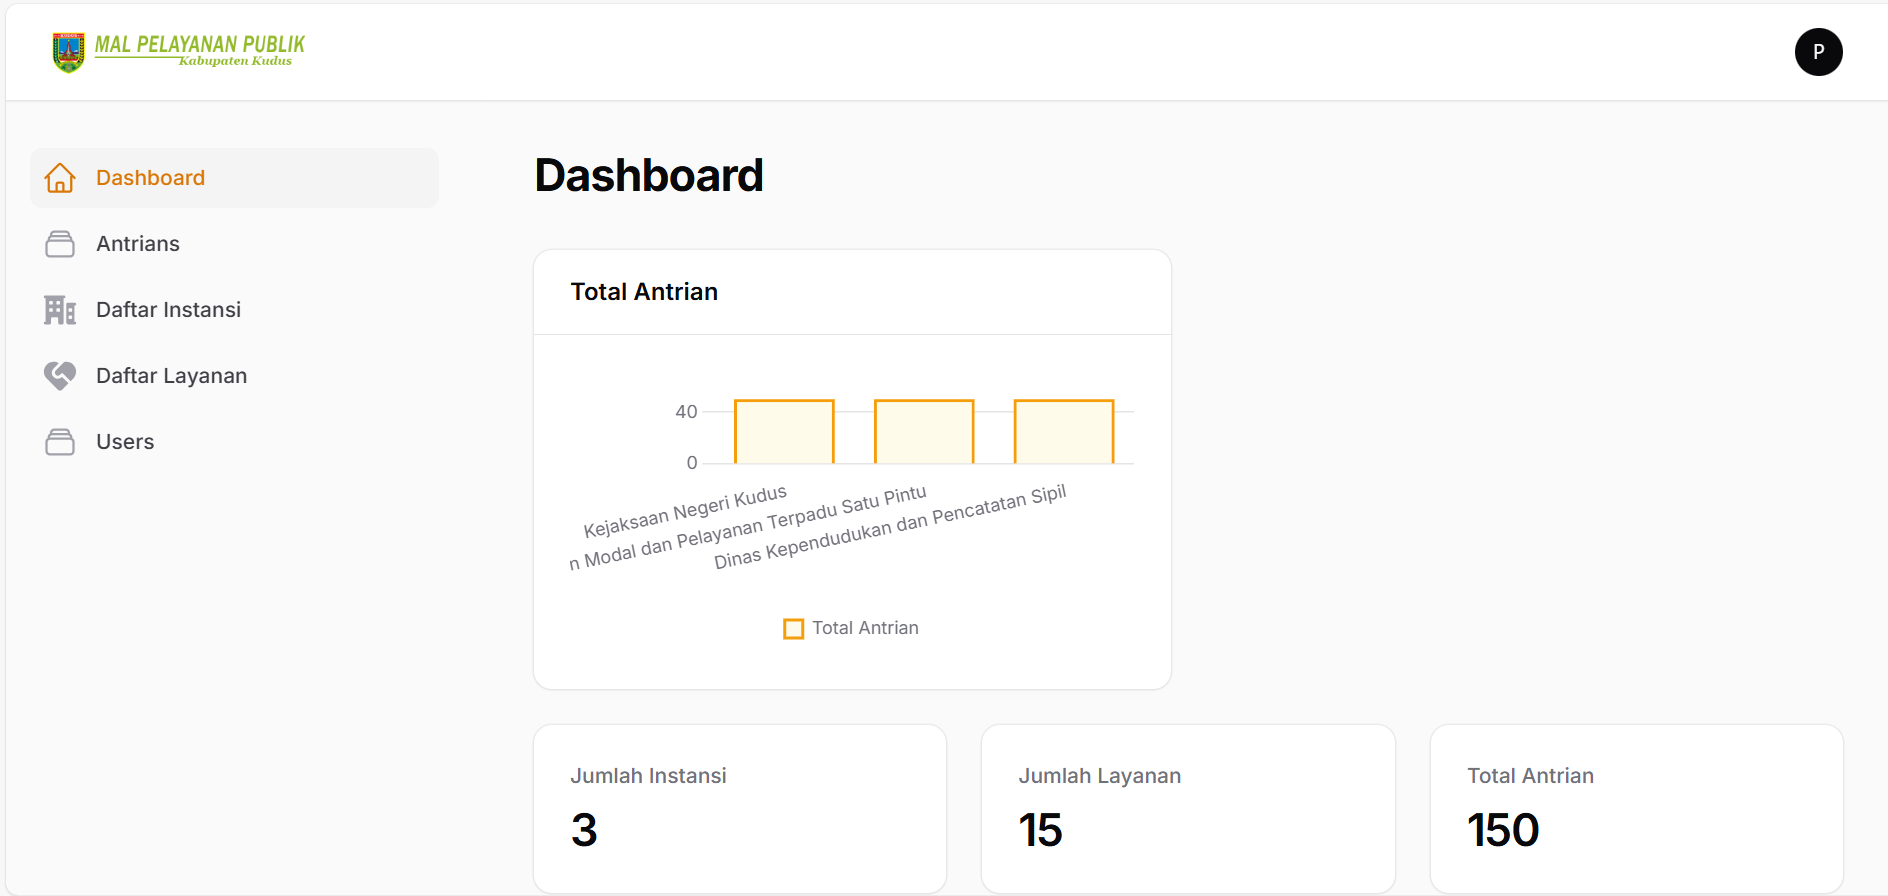
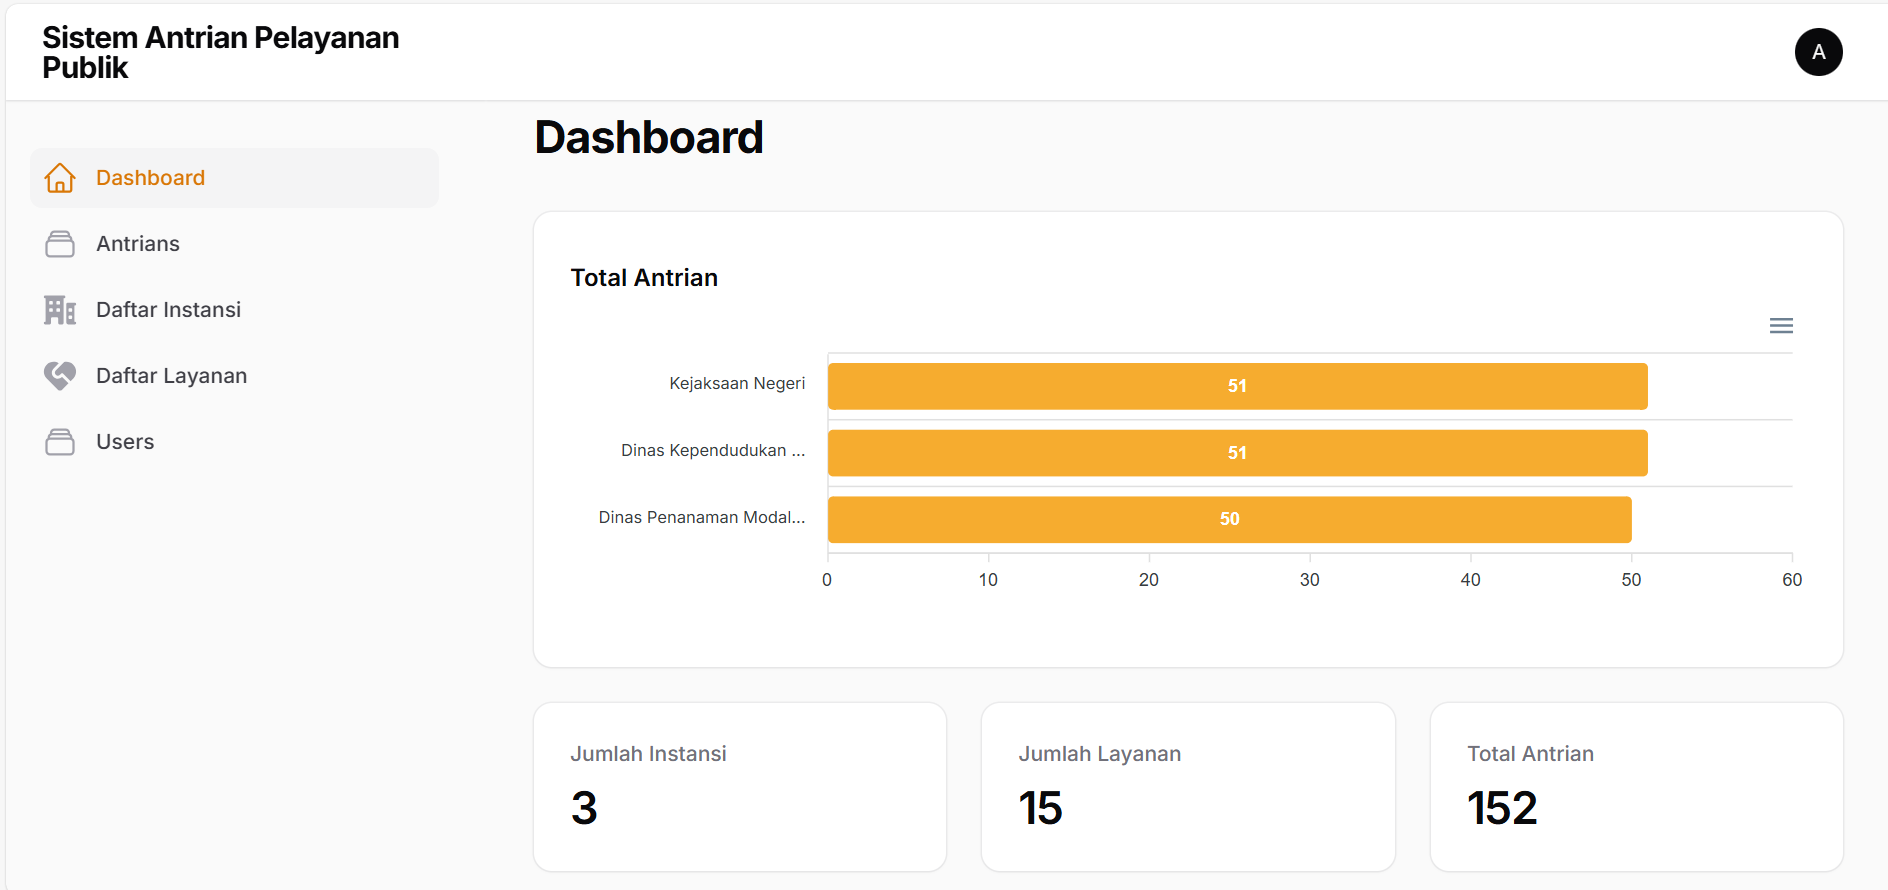
no message

diff --git a/resources/views/index.blade.php b/resources/views/index.blade.php
@@ -6,7 +6,7 @@
     <meta name="viewport" content="width=device-width, initial-scale=1.0" />
         @vite('resources/css/app.css')
     <title>
-      Play | Free Tailwind CSS Template for Startup and SaaS By TailGrids
+      Sistem Antrian Pelayanan Publik
     </title>
     <link
       rel="shortcut icon"
@@ -32,7 +32,7 @@
           <div class="max-w-full px-4 w-60">
             <a href="index.html" class="block w-full py-5 navbar-logo">
               <img
-                src="{{ asset('assets/images/logo/mppfix.png') }}"
+                src=""
                 alt="logo"
                 class="w-full header-logo"
               />
@@ -183,7 +183,7 @@
                 data-wow-delay=".2s"
                 >
                 <h1 class="mb-6 text-3xl font-bold leading-snug text-white sm:text-4xl sm:leading-snug lg:text-5xl lg:leading-[1.2]">
-                    Mall Pelayanan Publik Kudus
+                    Sistem Antrian Pelayanan Publik
                 </h1>
                 <p class="mx-auto mb-9 max-w-[600px] text-base font-medium text-white sm:text-lg sm:leading-[1.44]">
                     Siap Melayani Anda.
@@ -229,14 +229,14 @@
                 Instansi
             </h1>
             <p class="mx-auto mb-9 max-w-[600px] text-base font-medium text-black sm:text-lg sm:leading-[1.44]">
-                Daftar Instansi di Mall Pelayanan Publik Kabupaten Kudus.
+                Daftar Instansi.
             </p>
             </div>
 
             <div class="grid gap-8 sm:grid-cols-2 lg:grid-cols-3">
             <!-- Card 1 -->
             <div class="bg-white rounded-2xl shadow-md p-6 text-center">
-                <img src="{{ asset('assets/images/instansi/DPMPTSP.png') }}" alt="Garret Edwards" class="w-32 h-32 mx-auto rounded-full mb-4 object-cover">
+                <img src="" alt="Instansi 1" class="w-32 h-32 mx-auto rounded-full mb-4 object-cover">
                 <h3 class="text-xl font-semibold text-gray-800">Dinas Penanaman Modal dan Pelayanan Terpadu Satu Pintu</h3>
                 
                 <div class="flex justify-center space-x-4 text-gray-500">
@@ -248,7 +248,7 @@
 
             <!-- Card 2 -->
             <div class="bg-white rounded-2xl shadow-md p-6 text-center">
-                <img src="{{ asset('assets/images/instansi/DUKCAPIL.png') }}" alt="Jonathan Leeson" class="w-32 h-32 mx-auto rounded-full mb-4 object-cover">
+                <img src="" alt="Instansi 2" class="w-32 h-32 mx-auto rounded-full mb-4 object-cover">
                 <h3 class="text-xl font-semibold text-gray-800">Direktorat Jenderal Kependudukan dan Pencatatan Sipil</h3>
                 <div class="flex justify-center space-x-4 text-gray-500">
                 <a href="#"><i class="fab fa-facebook-f"></i></a>
@@ -259,8 +259,8 @@
 
             <!-- Card 3 -->
             <div class="bg-white rounded-2xl shadow-md p-6 text-center">
-                <img src="{{ asset('assets/images/instansi/KEJAKSAAN.png') }}" alt="Joe Russell" class="w-32 h-32 mx-auto rounded-full mb-4 object-cover">
-                <h3 class="text-xl font-semibold text-gray-800">Kejaksaan Negeri Kudus</h3>
+                <img src="" alt="Instansi 3" class="w-32 h-32 mx-auto rounded-full mb-4 object-cover">
+                <h3 class="text-xl font-semibold text-gray-800">Kejaksaan Negeri</h3>
                 <div class="flex justify-center space-x-4 text-gray-500">
                 <a href="#"><i class="fab fa-facebook-f"></i></a>
                 <a href="#"><i class="fab fa-twitter"></i></a>
@@ -316,7 +316,7 @@
                       Lokasi
                     </h5>
                     <p class="text-base text-body-color dark:text-dark-6">
-                      5RVR+8H6, Kudus, Demaan, Kota Kudus, Kudus Regency, Central Java
+                      Indonesia
                     </p>
                   </div>
                 </div>
@@ -340,10 +340,10 @@
                       Hubungi Kami
                     </h5>
                     <p class="text-base text-body-color dark:text-dark-6">
-                      (0291) 435018
+                      (0999) 999999
                     </p>
                     <p class="mt-1 text-base text-body-color dark:text-dark-6">
-                      mpp@kuduskab.go.id
+                      pelayananpublik@example.com
                     </p>
                   </div>
                 </div>
@@ -354,7 +354,7 @@
             <div class="wow fadeInUp rounded-lg bg-white px-8 py-10 shadow-testimonial dark:bg-dark-2 dark:shadow-none sm:px-10 sm:py-12 md:p-[60px] lg:p-10 lg:px-10 lg:py-12 2xl:p-[60px]"
               data-wow-delay=".2s" >
               <img
-                src="{{ asset('assets/images/logo/mppfix.png') }}"
+                src=""
                 alt="logo"
                 class="w-full header-logo"
               />

diff --git a/app/Filament/Widgets/AntrianChart.php b/app/Filament/Widgets/AntrianChart.php
@@ -19,7 +19,7 @@ class AntrianChart extends ApexChartWidget
      *
      * @var string|null
      */
-    protected static ?string $heading = 'AntrianChart';
+    protected static ?string $heading = 'Total Antrian';
 
     /**
      * Chart options (series, labels, types, size, animations...)
@@ -36,7 +36,7 @@ class AntrianChart extends ApexChartWidget
         return [
             'chart' => [
                 'type' => 'bar',
-                'height' => 300,
+                'height' => 200,
             ],
             'series' => [
                 [
